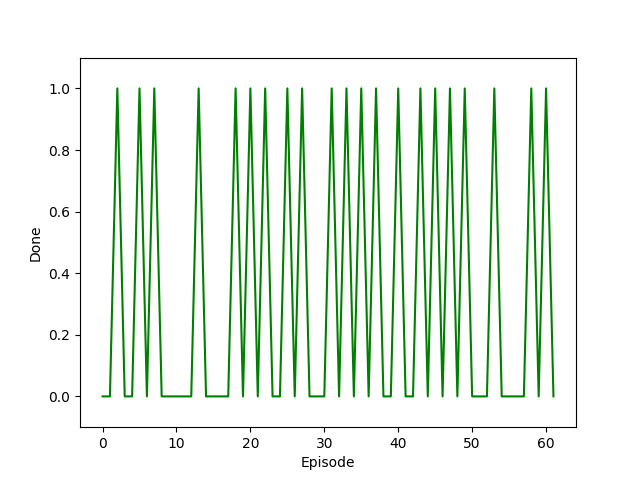
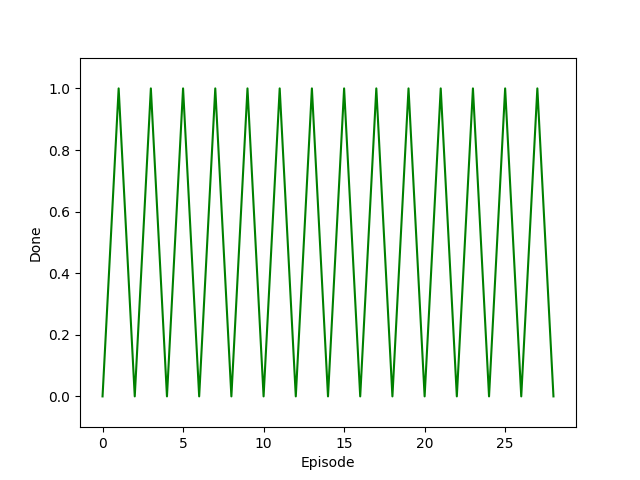
model test -> connected_ob 90% success very good

diff --git a/controllers/CL_TEST_8_action 5/CL_TEST_8_action 5.py b/controllers/CL_TEST_8_action 5/CL_TEST_8_action 5.py
@@ -1,5 +1,5 @@
 CL_MODEL = "Curriculum Yes ob pipe_section 0_2"
-CL_KIND = f"{CL_MODEL}_test_pipe_section_11(gap)"
+CL_KIND = f"{CL_MODEL}_test_pipe_section_connected_ob"
 TEST_COUNT = 10
 INPUT_SENSOR = 8
 INPUT_SIZE = 10
